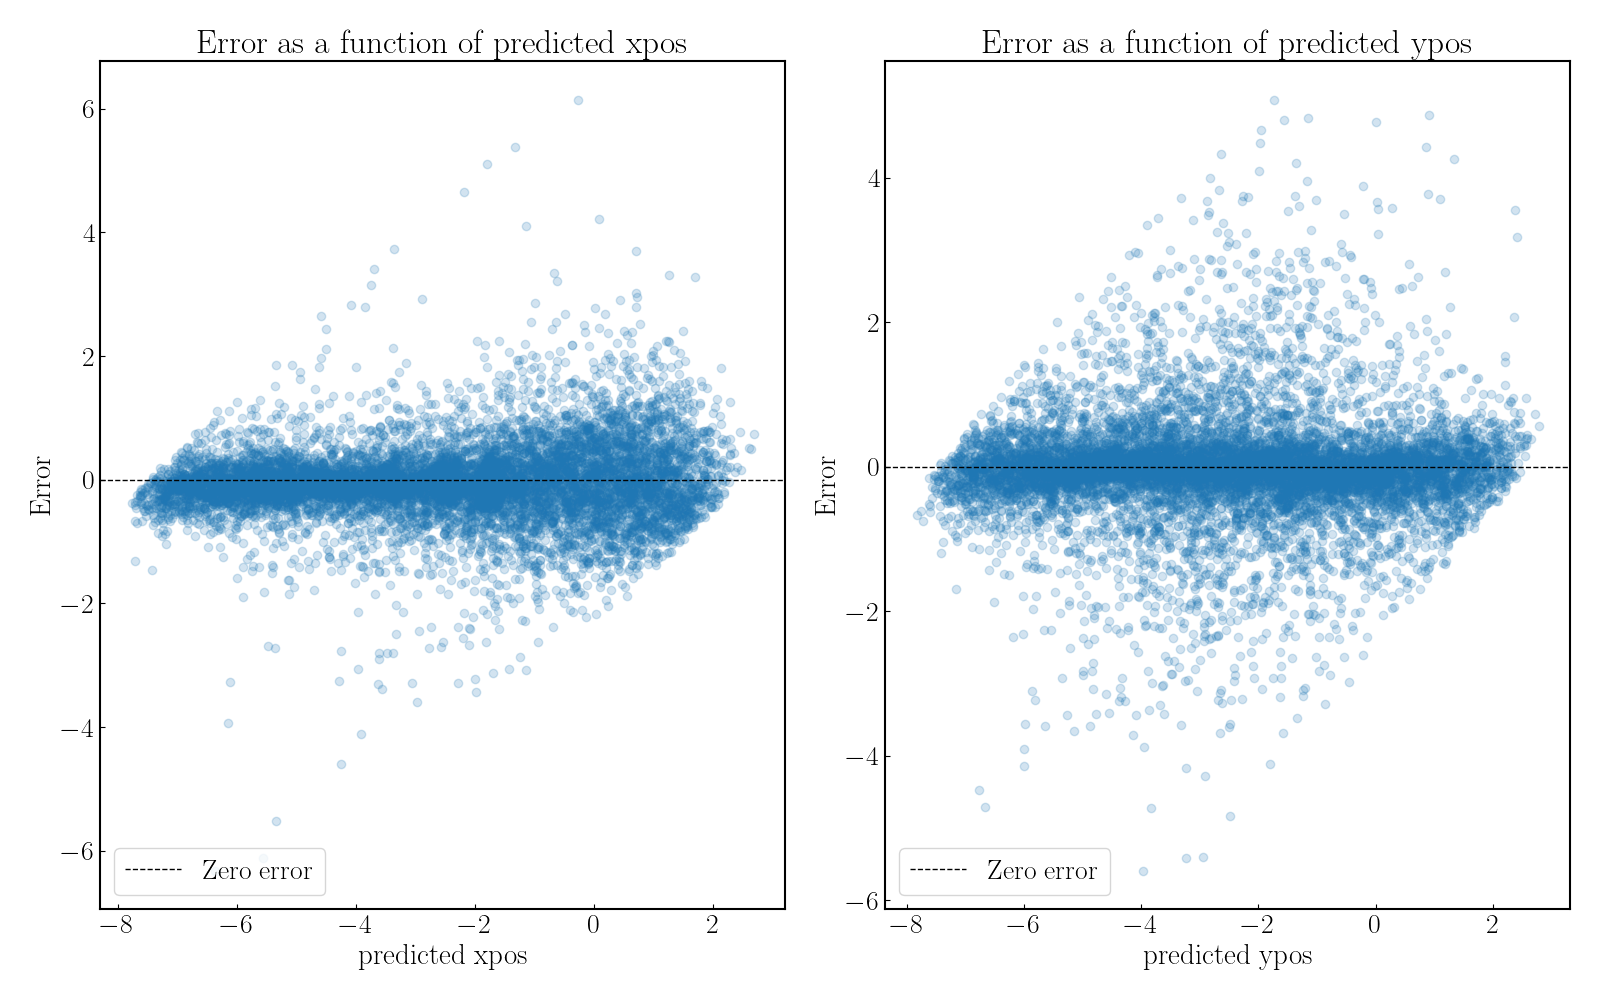
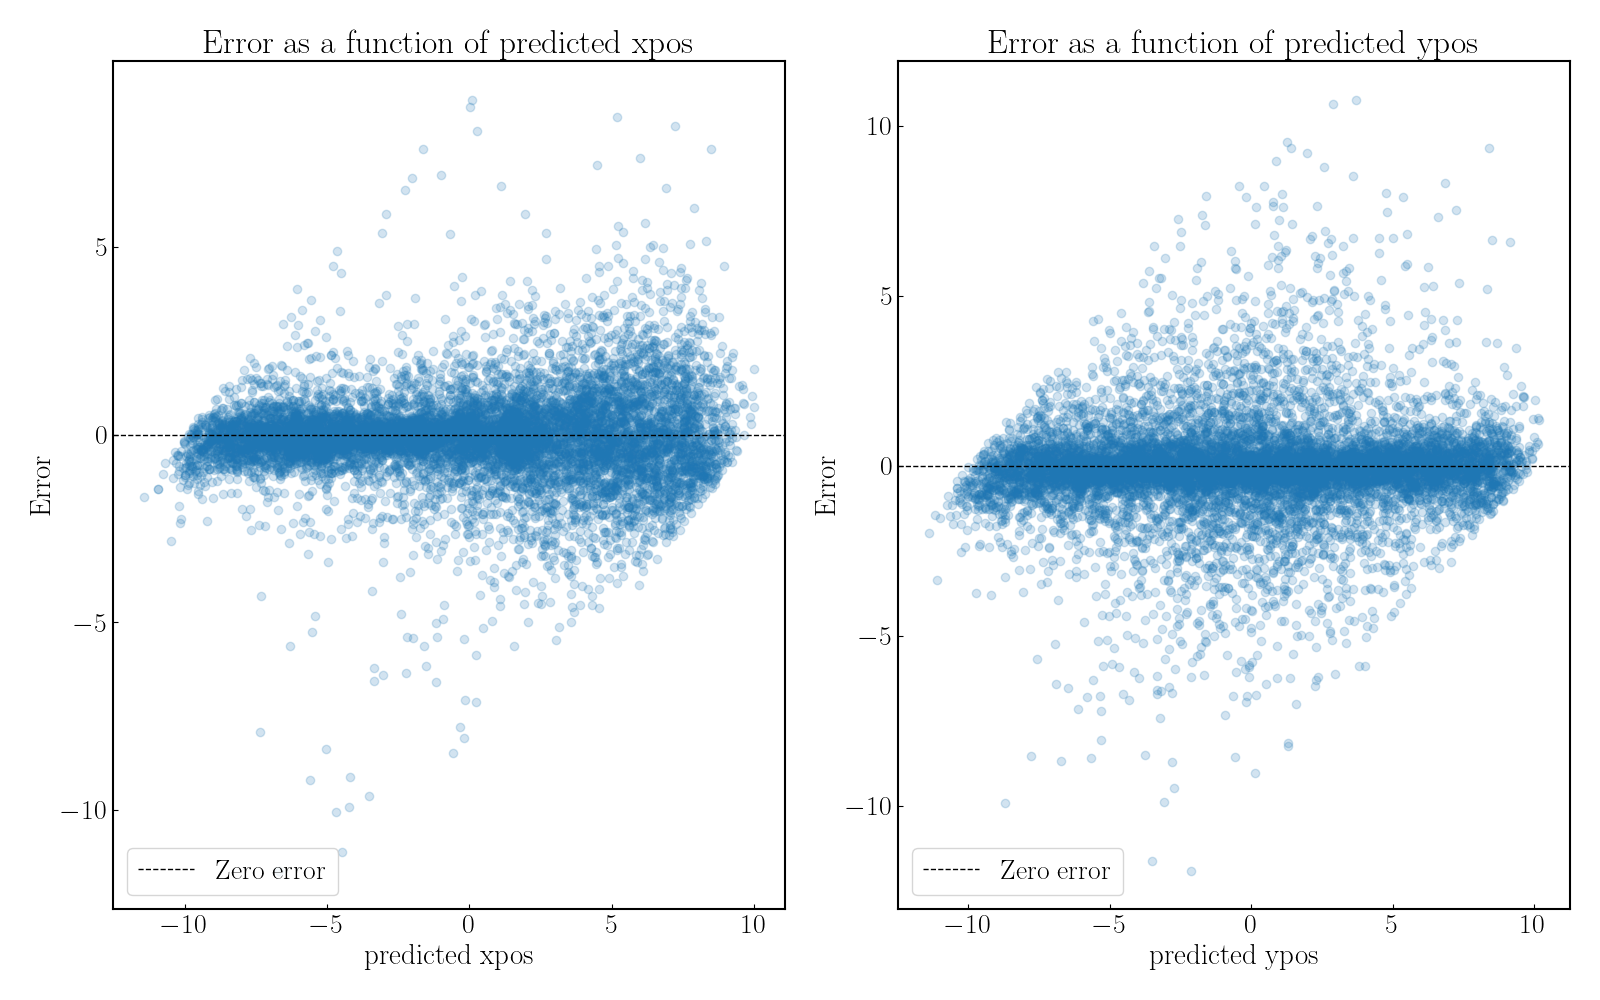
Updated and completed Ex6

diff --git a/Ex6_Transformer/plot_model_predictions.py b/Ex6_Transformer/plot_model_predictions.py
@@ -62,10 +62,13 @@ label_ranges = {}
 with open(norm_param_file, "r") as f:
     for line in f:
         key, value = line.strip().split(":")
-        # Since the values are in the form of (np.float64(-2.5), np.float64(2.5)), we need to convert them to float and tuple
-        value = value.split(",")
-        value = [value.strip().strip('np.float64').strip('(np.float64').strip('(').strip(')') for value in value]
-        label_ranges[key] = (float(value[0]), float(value[1]))
+        if 'label_ranges' in key:
+            value = value.strip().strip('[').strip(']').split("  ")
+            label_ranges[key] = (float(value[0]), float(value[1]))
+        elif 'pos_mean_std_test' in key:
+            values = value.strip().strip('(').strip(')').split(',')
+            values = [v.strip().split('np.float64(')[1].strip(')').strip() for v in values]
+            label_ranges[key] = (float(values[0]), float(values[1]))
 
 # initialize the model
 model = TransformerEncoder(
@@ -95,27 +98,42 @@ model.load_state_dict(best_model)
 model.eval()
 
 all_predictions, all_true_labels, _, _ = evaluate_model(model, test_dataloader, criterion, device)
-all_predictions = denormalize(all_predictions[:,:n_labels], np.array([label_ranges['x_ranges_test'], label_ranges['y_ranges_test']]).T)
-all_true_labels = denormalize(all_true_labels,  np.array([label_ranges['x_ranges_test'], label_ranges['y_ranges_test']]).T)
+all_predictions = all_predictions*np.array([label_ranges['x_pos_mean_std_test'][1], label_ranges['y_pos_mean_std_test'][1]]).reshape(1,2)+np.array([label_ranges['x_pos_mean_std_test'][0], label_ranges['y_pos_mean_std_test'][0]]).reshape(1,2)
+#denormalize(all_predictions[:,:n_labels], np.array([label_ranges['x_label_ranges_test'], label_ranges['y_label_ranges_test']]).T)
+all_true_labels = all_true_labels*np.array([label_ranges['x_pos_mean_std_test'][1], label_ranges['y_pos_mean_std_test'][1]]).reshape(1,2)+np.array([label_ranges['x_pos_mean_std_test'][0], label_ranges['y_pos_mean_std_test'][0]]).reshape(1,2)
+
+#denormalize(all_true_labels,  np.array([label_ranges['x_label_ranges_test'], label_ranges['y_label_ranges_test']]).T)
 
 gt = all_true_labels # for readability
 
-# Scatter plots for predictions
-fig, axes = plt.subplots(1, 2, figsize=(16, 10))  # First row taller
+# Scatter plots for predictions with error plots below
 labelNames = ['xpos', 'ypos']
+fig, axes = plt.subplots(2, n_labels, figsize=(16, 8), gridspec_kw={'height_ratios': [2, 1]})
+
 for j in range(n_labels):
-    # Scatter plot
-    ax = axes[j]
-    # Scatter plot of true vs predicted values with error bars
-    ax.scatter(gt[:, j], all_predictions[:, j],marker='o', alpha=0.2)
-    ax.plot([gt[:, j].min().item(), gt[:, j].max().item()], [gt[:, j].min().item(), gt[:, j].max().item()],
-            c="black", linestyle="dashed", label="Perfect prediction")
-    ax.set_xlabel("true " + labelNames[j])
-    ax.set_ylabel("predicted " + labelNames[j])
-    ax.legend()
+    # Scatter plot: true vs predicted
+    ax_scatter = axes[0, j]
+    ax_scatter.scatter(gt[:, j], all_predictions[:, j],s=6, alpha=0.2)
+    ax_scatter.plot(
+        [gt[:, j].min().item(), gt[:, j].max().item()],
+        [gt[:, j].min().item(), gt[:, j].max().item()],
+        c="black", linestyle="dashed", label="Perfect prediction"
+    )
+    ax_scatter.set_xlabel("true " + labelNames[j])
+    ax_scatter.set_ylabel("predicted " + labelNames[j])
+    ax_scatter.legend()
+
+    # Error plot: error vs true
+    ax_error = axes[1, j]
+    errors = all_predictions[:, j] - gt[:, j]
+    ax_error.scatter(gt[:, j], errors, s=6, alpha=0.2, c="xkcd:red")
+    ax_error.axhline(0, color="black", linestyle="dashed", label="Zero error")
+    ax_error.set_xlabel("true " + labelNames[j])
+    ax_error.set_ylabel("error (predicted - true)")
+    ax_error.legend()
 
 plt.tight_layout()
-plt.savefig(FOLDER_PATH+f'/plots/{model.name}_scatter.png')
+plt.savefig(FOLDER_PATH+f'/plots/{model.name}_scatter_and_error.png')
 plt.close()
 
 
@@ -126,7 +144,7 @@ for j in range(n_labels):
     # Calculate the error
     error = all_predictions[:, j] - gt[:, j]
     # Plot the error
-    ax.hist(error, bins=50, density=True, alpha=0.7, color='xkcd:gray', label="Error distribution")
+    ax.hist(error, bins=100, density=True, alpha=0.7, color='xkcd:gray', label="Error distribution")
     ax.set_xlabel("Error")
     ax.set_ylabel("Density")
     ax.set_title(f"Error distribution for {labelNames[j]}")
@@ -136,7 +154,7 @@ for j in range(n_labels):
     mu, std = np.mean(error), np.std(error)
     xmin, xmax = ax.get_xlim()
     x = np.linspace(xmin, xmax, 100)
-    p = np.exp(-0.5 * ((x - mu) / std) ** 2) / (std * np.sqrt(2 * np.pi))
+    p = np.exp(-0.5 * ((x - mu)/std) ** 2) / (std * np.sqrt(2 * np.pi))
     ax.plot(x, p, 'xkcd:red', linewidth=2, label='Gaussian fit\n'+fr'$\mu={mu:.2f}$,'+'\n'+fr'$\sigma={std:.2f}$')
     # Add a legend
     ax.legend(loc='upper left')

diff --git a/Ex6_Transformer/helper.py b/Ex6_Transformer/helper.py
@@ -144,6 +144,8 @@ def get_normalized_data(DATA_PATH):
     val_dataset = awkward.from_parquet(os.path.join(DATA_PATH, "val.pq"))
     test_dataset = awkward.from_parquet(os.path.join(DATA_PATH, "test.pq"))
 
+    print (len(train_dataset), len(val_dataset), len(test_dataset))
+
     #print the minimum and maximum values of the training dataset labels xpos and ypos
     print(f"Minimum and maximum values of the test dataset labels xpos: {np.min(test_dataset['xpos'])}, {np.max(test_dataset['xpos'])}")
     print(f"Minimum and maximum values of the test dataset labels ypos: {np.min(test_dataset['ypos'])}, {np.max(test_dataset['ypos'])}")
@@ -157,8 +159,10 @@ def get_normalized_data(DATA_PATH):
                                                     # with [:,0,:] we would get a 2D array of shape (n_events, n_hits)
         norm_times, ranges_times = normalize(times, 0.01) # Normalize the time data using the 1st and 99th percentiles
         x = dataset["data"][:, 1:2, :]
+        #ranges_x = np.array([np.min(x), np.max(x)])
         norm_x, ranges_x = normalize(x, 0.01) # Normalize the x data using the 1st and 99th percentiles
         y = dataset["data"][:, 2:3, :]
+        #ranges_y = np.array([np.min(y), np.max(y)])
         norm_y, ranges_y = normalize(y, 0.01) # Normalize the y data using the 1st and 99th percentiles
 
         # Concatenate the normalized data back together
@@ -168,6 +172,10 @@ def get_normalized_data(DATA_PATH):
             "xpos": (np.mean(dataset["xpos"]), np.std(dataset["xpos"])),
             "ypos": (np.mean(dataset["ypos"]), np.std(dataset["ypos"]))
         }
+
+        ranges_label_x = np.array([np.min(dataset["xpos"]), np.max(dataset["xpos"])])
+        ranges_label_y = np.array([np.min(dataset["ypos"]), np.max(dataset["ypos"])])
+
         # Normalize labels (this can be done in-place), e.g. by
         dataset["xpos"] = (dataset["xpos"] - np.mean(dataset["xpos"])) / np.std(dataset["xpos"])
         dataset["ypos"] = (dataset["ypos"] - np.mean(dataset["ypos"])) / np.std(dataset["ypos"]) 
@@ -176,7 +184,9 @@ def get_normalized_data(DATA_PATH):
         norm_ranges_dict={
             "time": ranges_times,
             "x": ranges_x,
-            "y": ranges_y
+            "y": ranges_y,
+            "x_label": ranges_label_x,
+            "y_label": ranges_label_y
         }
 
         return dataset, mean_std_dict, norm_ranges_dict
@@ -203,7 +213,7 @@ def get_normalized_data(DATA_PATH):
     return train_dataset, val_dataset, test_dataset, n_labels, mean_std_dict, norm_ranges_dict
 
 
-def get_dataloader(batch_size=32, pin_memory=True):
+def get_dataloader(batch_size=32):
     """
     Get the dataloaders for training, validation, and test datasets.
 
@@ -249,7 +259,13 @@ def get_dataloader(batch_size=32, pin_memory=True):
         "time_ranges_val": norm_ranges_dict["val"]["time"],
         "x_ranges_test": norm_ranges_dict["test"]["x"],
         "y_ranges_test": norm_ranges_dict["test"]["y"],
-        "time_ranges_test": norm_ranges_dict["test"]["time"]
+        "time_ranges_test": norm_ranges_dict["test"]["time"],
+        "x_label_ranges_train": norm_ranges_dict["train"]["x_label"],
+        "y_label_ranges_train": norm_ranges_dict["train"]["y_label"],
+        "x_label_ranges_val": norm_ranges_dict["val"]["x_label"],
+        "y_label_ranges_val": norm_ranges_dict["val"]["y_label"],
+        "x_label_ranges_test": norm_ranges_dict["test"]["x_label"],
+        "y_label_ranges_test": norm_ranges_dict["test"]["y_label"]
     }
 
     normalization_params_path = os.path.join(FOLDER_PATH, "normalization_params.txt")

diff --git a/Ex6_Transformer/train_model.py b/Ex6_Transformer/train_model.py
@@ -18,7 +18,7 @@ if not os.path.exists(MODEL_PATH):
 # Hyperparameters
 N_epochs = 100
 BATCH_SIZE = 128  # Batch size
-LEARNING_RATE = 4e-4
+LEARNING_RATE = 0.001
 d_model = 64
 nhead = 2
 dim_feedforward = 256
@@ -43,9 +43,10 @@ model = TransformerEncoder(
 # define the loss function
 criterion = nn.MSELoss()
 # define the optimizer
-optimizer = torch.optim.Adam(model.parameters(), lr=0.001)
-# define the learning rate scheduler
-scheduler = torch.optim.lr_scheduler.StepLR(optimizer, step_size=10, gamma=0.1)
+optimizer = torch.optim.Adam(model.parameters(), lr=LEARNING_RATE)
+# define the learning rate scheduler to reduce on plateau
+scheduler = torch.optim.lr_scheduler.ReduceLROnPlateau(optimizer, mode='min', factor=0.1, patience=5)
+# scheduler = torch.optim.lr_scheduler.StepLR(optimizer, step_size=10, gamma=0.1,)
 # define the device
 device = 'mps'
 
@@ -57,6 +58,7 @@ best_val_loss = float('inf')
 all_train_losses = []
 all_val_losses = []
 plot_intvl = 1
+last_lr = LEARNING_RATE
 for epoch in epochs:
     model.train()
     train_loss = 0.0
@@ -93,7 +95,12 @@ for epoch in epochs:
     print(f"Epoch {epoch + 1}/{N_epochs}, Train Loss: {train_loss:.4f}, Val Loss: {val_loss:.4f}")
 
     # update the learning rate
-    scheduler.step()
+    scheduler.step(val_loss)
+    # print the learning rate if the scheduler decreases it
+    if scheduler.get_last_lr()[0] < last_lr:
+        last_lr = scheduler.get_last_lr()[0]
+        print(f"Learning rate decreased to {last_lr:.4e}")
+
     # save the model if the validation loss is lower than the previous best
     if epoch == 0 or val_loss < best_val_loss:
         best_val_loss = val_loss
@@ -128,9 +135,11 @@ for epoch in epochs:
             plt.rcParams.update(params)
 
         plt.figure(figsize=(10, 5))
-        plt.plot(np.arange(0,epoch+1,1),all_train_losses, label='Training Loss')
-        plt.plot(np.arange(0,epoch+1,1),all_val_losses, label='Validation Loss')
+        plt.plot(np.arange(1,epoch+2,1),all_train_losses, label='Training Loss')
+        plt.plot(np.arange(1,epoch+2,1),all_val_losses, label='Validation Loss')
         plt.xlabel('Epochs')
+        plt.xticks(np.arange(1, epoch + 2, epoch // 10))
+        plt.xlim(0, epoch)
         plt.ylabel('Loss')
         plt.title('Training and Validation Loss')
         plt.legend()
